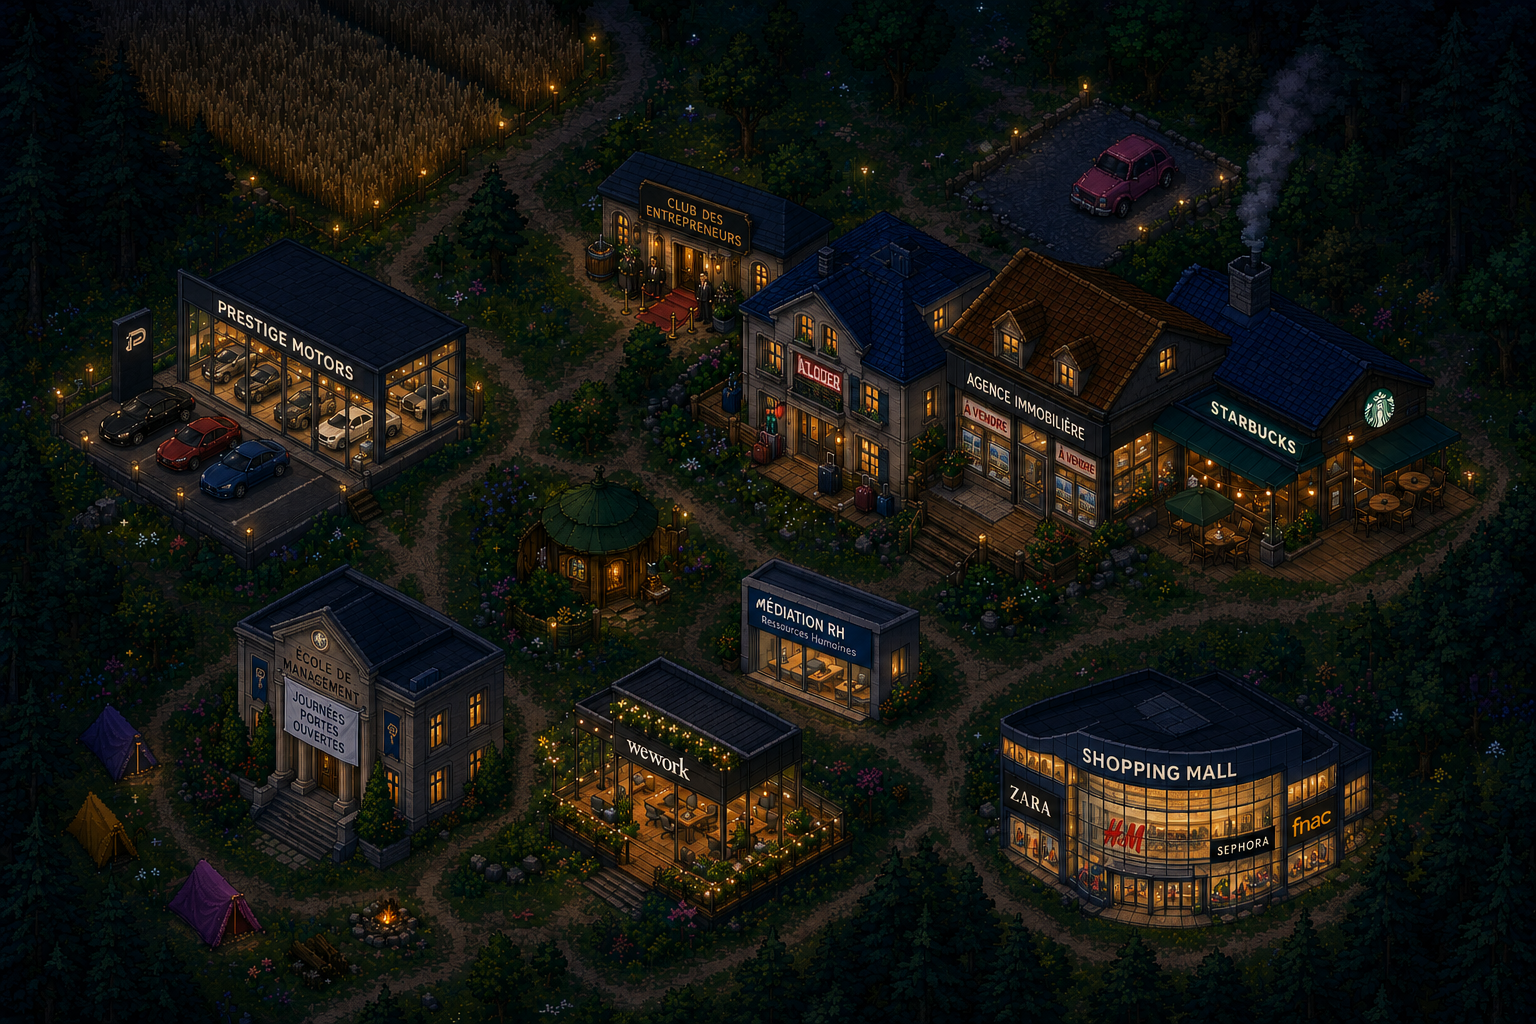
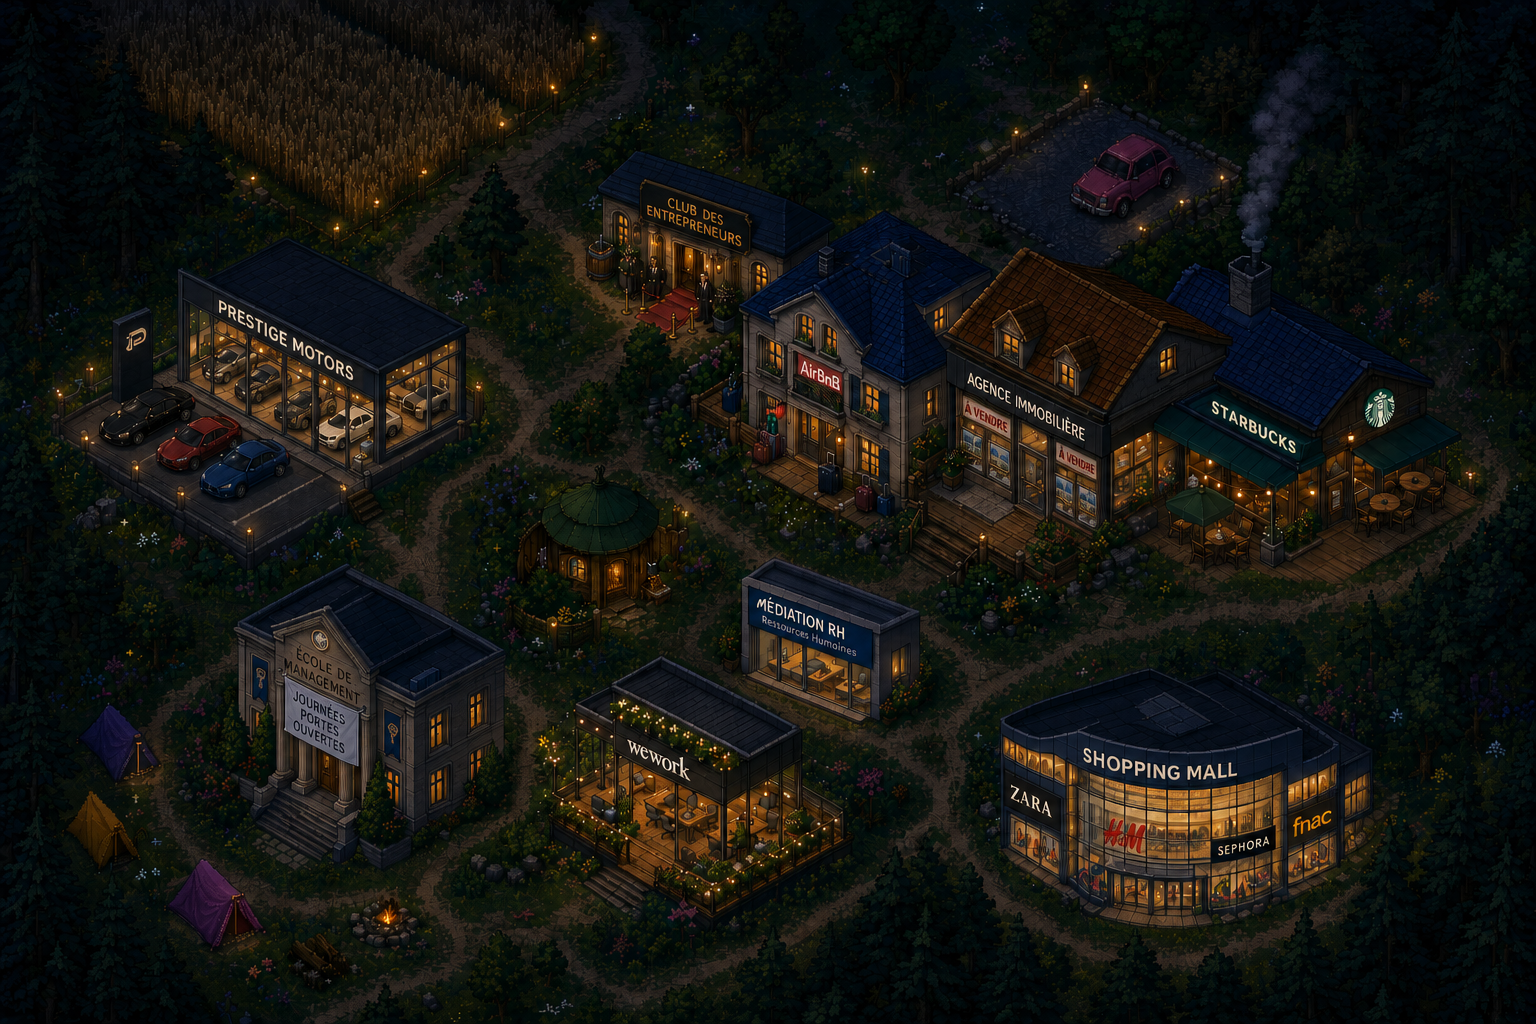
feat: leaderboard system (Google Apps Script + in-game UI)
- Add Google Apps Script backend for shared leaderboard (scripts/leaderboard-apps-script.gs)
- Add end-of-game pseudo input + score submission
- Add leaderboard modal accessible via HUD trophy button
- Show leaderboard table with ranking at end screen
- Persist pseudo in localStorage for returning players
- Score = vibe finale, also tracks queerises and pax count

diff --git a/index.html b/index.html
@@ -348,6 +348,46 @@ html,body{width:100%;height:100%;overflow:hidden;background:var(--dark);font-fam
 .end-card span{color:var(--green);font-family:'Press Start 2P',monospace;font-size:12px;}
 .end-title-label{font-family:'Press Start 2P',monospace;font-size:9px;color:var(--teal);margin-top:8px;letter-spacing:1px;}
 
+/* ===== LEADERBOARD ===== */
+#leaderboard-modal{
+  position:fixed;inset:0;z-index:1100;
+  background:rgba(26,14,46,0.97);
+  display:none;flex-direction:column;align-items:center;justify-content:flex-start;
+  padding:24px 16px;overflow-y:auto;
+}
+#leaderboard-modal.show{display:flex;}
+.lb-title{font-family:'Press Start 2P',monospace;font-size:16px;color:var(--yellow);text-shadow:2px 2px 0 var(--pink);text-align:center;margin-bottom:12px;}
+.lb-table{width:100%;max-width:400px;border-collapse:collapse;font-size:16px;}
+.lb-table th{font-family:'Press Start 2P',monospace;font-size:8px;color:var(--teal);padding:6px 4px;border-bottom:2px solid var(--teal);text-align:left;}
+.lb-table td{padding:6px 4px;border-bottom:1px solid rgba(95,207,232,0.2);color:var(--cream);}
+.lb-table tr.lb-me td{color:var(--yellow);font-weight:bold;}
+.lb-rank{font-family:'Press Start 2P',monospace;font-size:10px;color:var(--pink);width:30px;text-align:center;}
+.lb-pseudo{max-width:140px;overflow:hidden;text-overflow:ellipsis;white-space:nowrap;}
+.lb-score{font-family:'Press Start 2P',monospace;font-size:10px;color:var(--green);text-align:right;}
+.lb-empty{color:var(--teal);text-align:center;padding:24px;font-size:14px;opacity:0.7;}
+.lb-close{margin-top:16px;font-size:14px;}
+#end-pseudo-section{margin-top:8px;text-align:center;}
+#end-pseudo-input{
+  background:var(--dark2);border:2px solid var(--teal);border-radius:4px;
+  color:var(--cream);font-family:'VT323',monospace;font-size:18px;
+  padding:6px 12px;width:200px;text-align:center;outline:none;
+}
+#end-pseudo-input::placeholder{color:rgba(255,245,225,0.4);}
+#end-pseudo-input:focus{border-color:var(--yellow);}
+.lb-btn{
+  background:rgba(95,207,232,0.15);border:2px solid var(--teal);color:var(--teal);
+  font-family:'Press Start 2P',monospace;font-size:8px;padding:8px 16px;
+  border-radius:4px;cursor:pointer;letter-spacing:1px;
+}
+.lb-btn:hover{background:rgba(95,207,232,0.3);}
+.lb-btn:disabled{opacity:0.4;cursor:default;}
+#hud-lb-btn{
+  position:fixed;top:44px;right:10px;z-index:500;
+  background:rgba(26,14,46,0.85);border:1.5px solid var(--teal);
+  color:var(--teal);font-size:16px;padding:4px 8px;border-radius:4px;cursor:pointer;
+}
+#hud-lb-btn:hover{background:rgba(95,207,232,0.2);}
+
 /* ===== START SCREEN ===== */
 #start-screen{
   position:fixed;inset:0;z-index:1000;
@@ -900,8 +940,26 @@ html,body{width:100%;height:100%;overflow:hidden;background:var(--dark);font-fam
     <div>Pax recruté·es : <span id="end-pax">0</span></div>
     <div id="end-title-label" style="margin-top:10px;font-size:16px;color:var(--pink);"></div>
   </div>
+  <div id="end-pseudo-section">
+    <input id="end-pseudo-input" type="text" placeholder="Ton pseudo" maxlength="30" autocomplete="off">
+    <div style="margin-top:8px;">
+      <button class="lb-btn" id="end-submit-btn" onclick="submitAndShowLeaderboard()">ENVOYER MON SCORE</button>
+    </div>
+    <div id="end-submit-status" style="font-size:12px;color:var(--teal);margin-top:6px;"></div>
+  </div>
+  <div id="end-leaderboard" style="width:100%;max-width:400px;margin-top:8px;"></div>
   <button class="start-btn" onclick="location.reload()">REJOUER</button>
 </div>
+
+<!-- LEADERBOARD MODAL -->
+<div id="leaderboard-modal">
+  <div class="lb-title">🏆 LEADERBOARD</div>
+  <div id="lb-body"><div class="lb-empty">Chargement…</div></div>
+  <button class="lb-btn lb-close" onclick="document.getElementById('leaderboard-modal').classList.remove('show')">FERMER</button>
+</div>
+
+<!-- LEADERBOARD HUD BUTTON -->
+<button id="hud-lb-btn" onclick="showLeaderboard()" title="Leaderboard">🏆</button>
 
 <!-- DEV PANEL (visible si ?dev=1 dans l'URL) -->
 <div id="dev-panel" style="display:none;position:fixed;bottom:60px;left:10px;z-index:9999;background:#0a0f07;border:2px solid #5fcfe8;border-radius:6px;padding:10px;font-family:monospace;font-size:11px;color:#7fff5a;flex-direction:column;gap:6px;min-width:160px;">
@@ -2354,6 +2412,9 @@ function startGame() {
   updateMapTimeImages();
   // Seul le camping est révélé dès le départ
   revealZoneOnMap('camping');
+  // Pré-remplir le pseudo si déjà joué
+  const savedPseudo = localStorage.getItem('desordre_pseudo');
+  if (savedPseudo) document.getElementById('end-pseudo-input').value = savedPseudo;
   // Lancer le tuto si première fois (délai pour que l'UI soit rendue)
   setTimeout(tutoStart, 400);
 }
@@ -4146,6 +4207,102 @@ function endGame() {
   document.getElementById('end-pax').textContent = state.unlockedPax.length;
   document.getElementById('end-title-label').textContent = '🏆 ' + title;
   document.getElementById('end-screen').classList.add('show');
+  fetchLeaderboard().then(scores => renderLeaderboardInEnd(scores));
+}
+
+// ===== LEADERBOARD =====
+// ⚠ REMPLACER PAR L'URL DE TON DÉPLOIEMENT GOOGLE APPS SCRIPT
+const LEADERBOARD_URL = '';
+
+async function fetchLeaderboard() {
+  if (!LEADERBOARD_URL) return [];
+  try {
+    const r = await fetch(LEADERBOARD_URL);
+    return await r.json();
+  } catch (e) {
+    console.warn('Leaderboard fetch failed:', e);
+    return [];
+  }
+}
+
+async function submitScore(pseudo, score, queerises, pax) {
+  if (!LEADERBOARD_URL) return false;
+  try {
+    await fetch(LEADERBOARD_URL, {
+      method: 'POST',
+      headers: { 'Content-Type': 'text/plain' },
+      body: JSON.stringify({ pseudo, score, queerises, pax })
+    });
+    return true;
+  } catch (e) {
+    console.warn('Leaderboard submit failed:', e);
+    return false;
+  }
+}
+
+async function submitAndShowLeaderboard() {
+  const btn = document.getElementById('end-submit-btn');
+  const status = document.getElementById('end-submit-status');
+  const input = document.getElementById('end-pseudo-input');
+  const pseudo = input.value.trim() || 'Anonyme';
+
+  btn.disabled = true;
+  status.textContent = 'Envoi…';
+
+  const score = Math.round(state.vibeGlobale);
+  const ok = await submitScore(pseudo, score, state.stats.queerised, state.unlockedPax.length);
+
+  if (ok) {
+    status.textContent = '✅ Score envoyé !';
+    input.disabled = true;
+    localStorage.setItem('desordre_pseudo', pseudo);
+    const scores = await fetchLeaderboard();
+    renderLeaderboardInEnd(scores, pseudo);
+  } else {
+    if (!LEADERBOARD_URL) {
+      status.textContent = '⚠️ Leaderboard pas encore configuré (voir LEADERBOARD_URL)';
+    } else {
+      status.textContent = '❌ Erreur, réessaie';
+      btn.disabled = false;
+    }
+  }
+}
+
+function buildLeaderboardTable(scores, highlightPseudo) {
+  if (!scores || !scores.length) return '<div class="lb-empty">Aucun score pour le moment. Sois le·la premier·ère !</div>';
+  let html = '<table class="lb-table"><thead><tr><th>#</th><th>PSEUDO</th><th>VIBE</th><th>🌈</th></tr></thead><tbody>';
+  scores.forEach((s, i) => {
+    const isMe = highlightPseudo && s.pseudo === highlightPseudo;
+    const medal = i === 0 ? '🥇' : i === 1 ? '🥈' : i === 2 ? '🥉' : (i + 1);
+    html += `<tr class="${isMe ? 'lb-me' : ''}">
+      <td class="lb-rank">${medal}</td>
+      <td class="lb-pseudo">${escapeHtml(s.pseudo)}</td>
+      <td class="lb-score">${s.score}%</td>
+      <td style="text-align:center;font-size:12px;">${s.queerises}</td>
+    </tr>`;
+  });
+  html += '</tbody></table>';
+  return html;
+}
+
+function escapeHtml(s) {
+  const d = document.createElement('div');
+  d.textContent = s;
+  return d.innerHTML;
+}
+
+function renderLeaderboardInEnd(scores, highlightPseudo) {
+  document.getElementById('end-leaderboard').innerHTML = buildLeaderboardTable(scores, highlightPseudo);
+}
+
+async function showLeaderboard() {
+  const modal = document.getElementById('leaderboard-modal');
+  const body = document.getElementById('lb-body');
+  body.innerHTML = '<div class="lb-empty">Chargement…</div>';
+  modal.classList.add('show');
+  const scores = await fetchLeaderboard();
+  const pseudo = localStorage.getItem('desordre_pseudo');
+  body.innerHTML = buildLeaderboardTable(scores, pseudo);
 }
 
 // ===== MAP INTERACTION (pan + zoom) =====